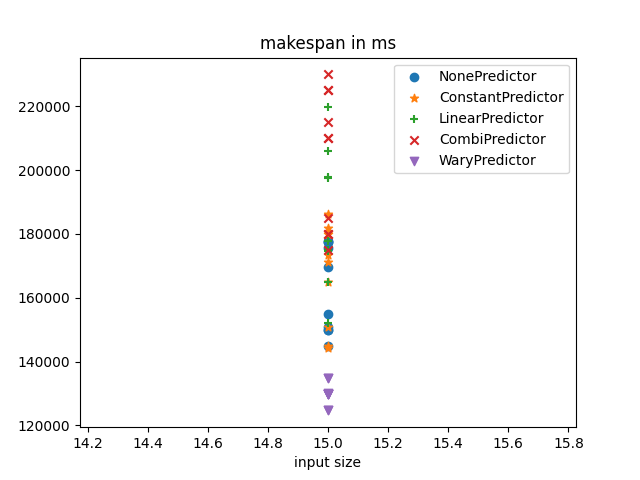
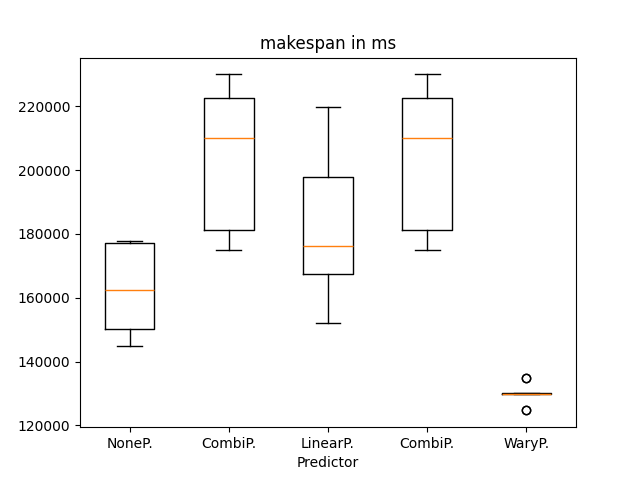
boxplot

diff --git a/experiment5/makespan-boxplot.py b/experiment5/makespan-boxplot.py
@@ -74,7 +74,7 @@ def analyse_folder(foldername):
 
 def main():
     cwd = os.getcwd().split('\\')[-1]
-    print("Makespan analysis\n")
+    print("Makespan analysis -> boxplot\n")
     if len(sys.argv) < 2:
         print(f"usage: {sys.argv[0]} <pathname(s)> ...")
         exit(1)
@@ -86,16 +86,19 @@ def main():
 
     #fig = plt.figure()
     
+    test = []
+    names = []
     markers = ['o','*','+','x', 'v']
     for i in range(0, len(dataframes)):
         cname = dataframes[i].columns[1]
         #print(dataframes[i]["Observations"])
-        #print(dataframes[i][cname])
-        plt.scatter(dataframes[i]['Observations'], dataframes[i][cname], marker=markers[i], label=cname)
+        print(dataframes[i][cname])
+        test.append(dataframes[i][cname])
+        names.append(cname.replace("Predictor", "P."))
 
+    plt.boxplot(test, labels=names)
     plt.title('makespan in ms')
-    plt.xlabel("input size")
-    plt.legend()
+    plt.xlabel("Predictor")
     #plt.show()
     plt.savefig(f"{cwd}.png")
 
